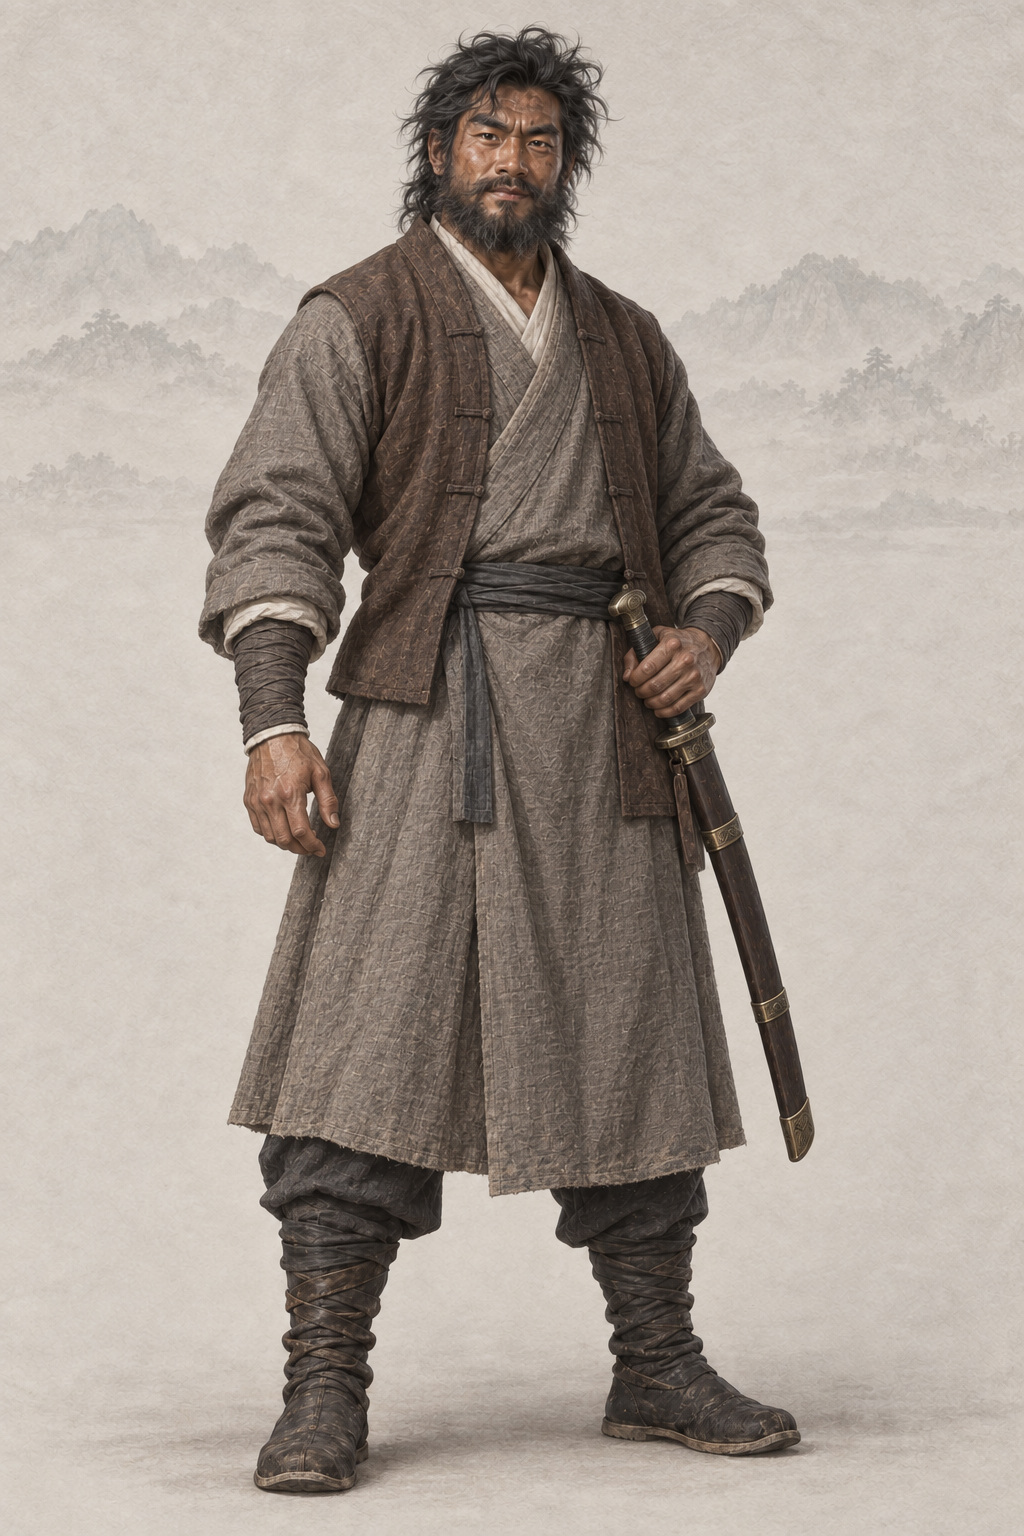
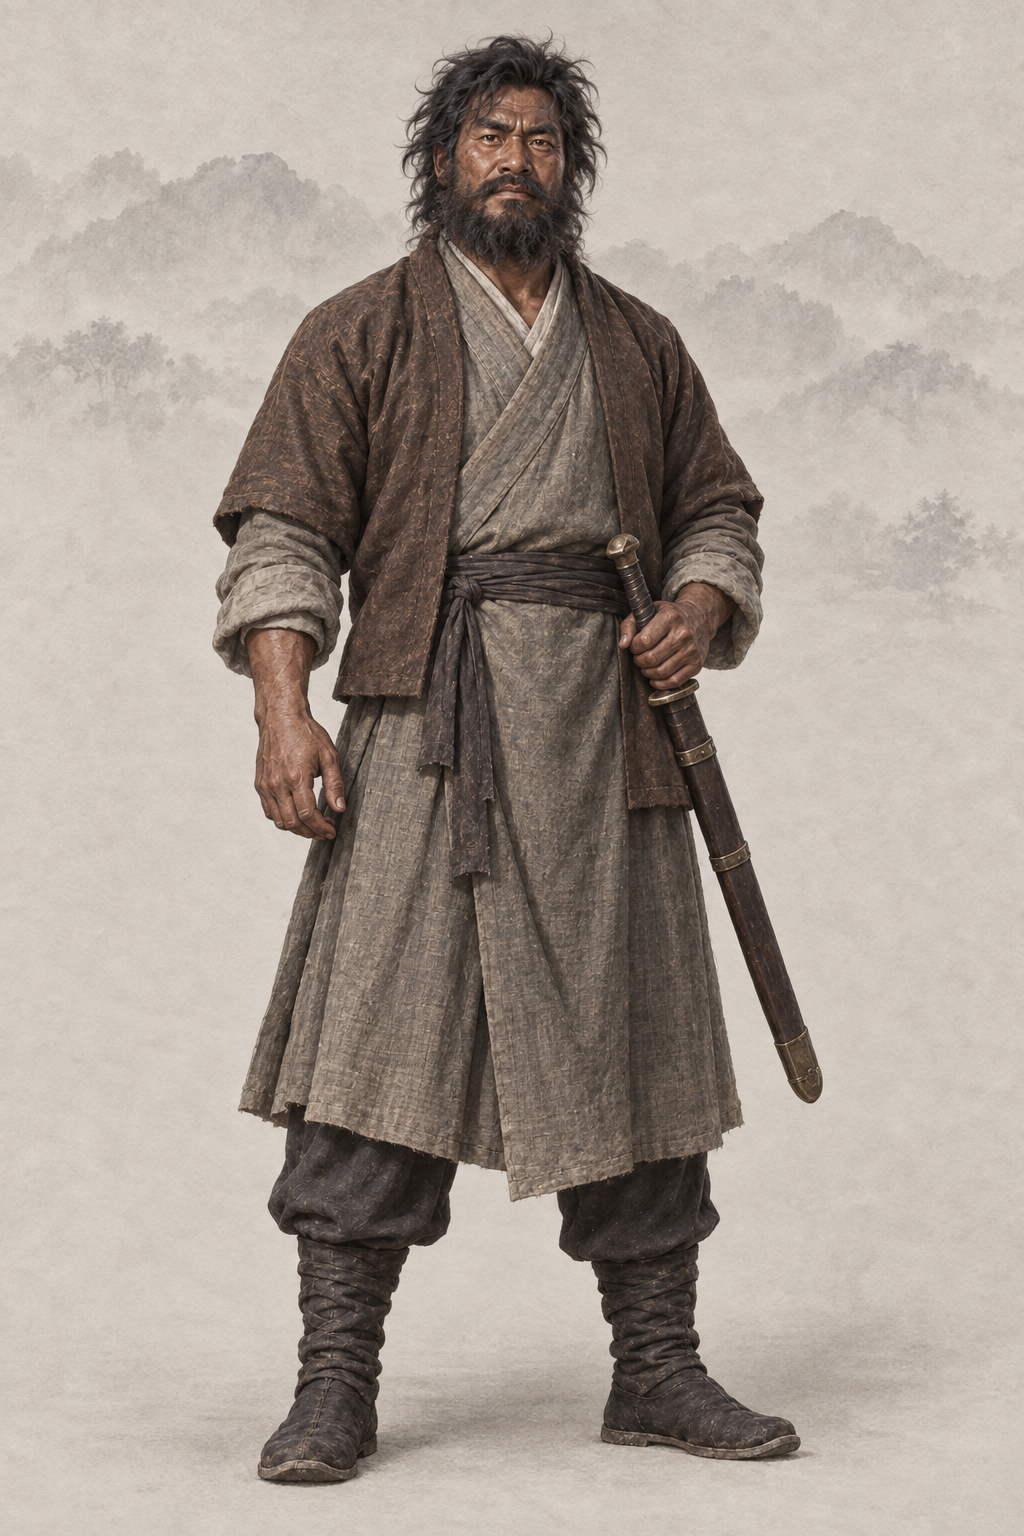
assets(character): por_npc_huyidao__ch13_prime_memory_base 胡一刀（codex · AR-32 主要角色重出，本机无剧照：本轮新图身份参考 + 基线）
本机无剧照，文字 + 基线，身份参考本轮新图；提示词写回「## Gemini 提示词」，上一版留作历史，frontmatter 加 classic_ref。

diff --git a/assets/default/prompts/characters/ch13-feihu/npc_huyidao.md b/assets/default/prompts/characters/ch13-feihu/npc_huyidao.md
@@ -15,16 +15,41 @@ references:
   use: 第二输入仅用户图的暖浅灰纸底、极浅水墨远山薄雾和留白；不取其中女性的脸、年龄、体型、白青衣裙、首饰、发型或姿势，不取花枝亭阁。水墨止于人物轮廓外。
 status: redo
 redo_reason: "现图是英俊的型男、胡须修剪整齐，原著胡一刀「一张黑漆脸皮，满脸浓髯，头发不结辫子蓬蓬松松堆在头上，当真凶恶」；按雪山版重画后的同一张脸统一。"
+realism_revision: user_identity_pose_20261001
+codex_prompt_rev: 2026-10-02
+classic_ref:
+  version: "无剧照（本机没有1991 年台视《雪山飞狐》（含飞狐外传情节）里该角色的剧照，经典造型用文字描写）"
+  stills: []
+  note: "本机没有该角色的经典版剧照，只用文字和两张同性别基线出图（AR-32）；另上传本轮新出的 por_npc_huyidao__ch14_prime_memory_base 作身份参考（放在最前）"
 reference_upload:
 - assets/default/character/male/ch14/por_npc_huyidao__ch14_prime_memory_base.png
 - assets/default/baseline/character/male/ref_npc_linghuchong__ch05_base01.png
-realism_revision: user_identity_pose_20261001
-codex_prompt_rev: 2026-10-02
+- assets/default/baseline/character/male/ref_npc_xiaofeng__ch01_base01.png
 ---
 
 # 胡一刀 · 人物写实修正
 
 ## Gemini 提示词
+
+> 2026-10-02 AR-32 经典剧照重出（6 号出图员，codex exec · image_gen 出图）：本机没有该角色剧照：上传本轮新出的 por_npc_huyidao__ch14_prime_memory_base（同一人物）作身份参考在前、两张同性别基线在后。剧照只借鉴发型、服饰、配色、标志道具、气质与面部特征，重新绘制成项目画风，不照搬照片的构图、光影和姿势；人物一律成年；清代男子按清制剃额留辫（胡一刀按原著不结辫，保留）。提示词里不写演员名。上一版提示词保留在下一节作历史。
+
+```text
+生成一张 2:3 竖幅全身人物立绘：单人、单一视角、完整全身——头顶、双手、双脚和手中器物的两端都在画面内，四周留出自然空白；人物站姿自然，身体基本朝向正面，头部端正（不歪头、不仰不俯），镜头平视。
+【参考图】随提示词上传 3 张参考图。第 1 张是本轮新画的胡一刀（雪山飞狐回忆）立绘，是同一个人：黝黑如漆的脸色、浓眉大眼、满脸粗硬的浓髯和蓬乱的头发都一样；保持同一张脸（脸型、五官比例、肤色和神态），衣服、发式和姿势按下文文字重画，不要照搬它的构图和站姿。最后两张是本项目画风基线：画风、用色、光线、质感和暖浅灰纸底加淡水墨背景以它们为准。
+【画风】写实手绘古风人物插画，与本项目写实武侠角色立绘同一画风，像功力深厚的画师用细腻笔触画出的真实人物。手绘插画质感，不是 CG 渲染：不要过度光滑的皮肤、完美对称的五官、塑料高光、过度锐利的发丝；保留自然的笔触和细微不完美。皮肤有真实质感——细小毛孔、细纹、晒痕和自然的左右不对称，不磨皮、不油亮；头发是一缕缕自然的发丝和少量碎发；布料看得出经纬纹理、厚薄和自然垂坠的褶皱，带穿用过的轻微旧化，但完整不破烂；整体设色低饱和、沉稳；柔和的自然光从左上方照来，明暗过渡自然，不打舞台光、轮廓光或美颜柔光。不是照片，不是三维渲染，不是动漫或游戏 CG，也不是油画（没有厚涂笔触和画布纹理）。
+【背景】不透明的暖浅灰色纸底，只在远处有极淡的水墨远山和薄雾，大面积留白；人物与背景明暗分明、轮廓边缘干净完整（后续要自动抠图），水墨和纸纹只在背景里，不侵入人物和衣服；脚下只有很淡的一点接触阴影。
+【人物】胡一刀，金庸《飞狐外传》回忆中的辽东大侠，胡斐的父亲，与苗人凤决斗之前。
+【年龄与体态】三十多岁的男人，身材魁伟厚实，胸背宽阔，手掌粗大，约七个半头身。
+【经典造型】要一眼认出是辽东大侠胡一刀——黑漆般的脸、满脸钢针似的浓髯、蓬乱不结辫的浓发、腰挎单刀，乍看凶恶如门神，眼神却豪迈坦荡、透着亲切；粗豪而有英雄气。
+【面容】与第 1 张参考图是同一张脸；一张黝黑如漆的脸；满脸浓密粗硬的络腮胡，从鬓角一直连到下巴和喉头；粗黑的浓眉，一双大眼睛圆睁、目光如电；大鼻头、宽鼻翼，阔口厚唇；乍看相貌凶恶粗豪，像庙门上的门神，细看眼神里却有坦荡和豪迈。
+【发式】不结辫子，浓密蓬松的黑发乱糟糟地堆在头上，几绺垂到额前。
+【服饰】灰褐色厚棉长袍，外罩深褐色对襟短褂，交领右衽（穿着者左襟压右襟），宽布带束腰，深色长裤，粗实的皮靴。
+【道具与姿态】左腰挂一柄朴素的中式单刀，微弧刀身完全收在暗棕色长鞘里；左手扶着鞘口。开胸站立，双足牢靠，豪迈大度。
+【不要】画面里不要任何文字、题款、印章、签名、水印、台标、边框、分格或多视图；不要第二个人；不要幼态（童颜、娃娃脸、婴儿肥、儿童或少年身材、大头小身）；不要塑料感皮肤、磨皮美颜、网红脸（尖下巴大眼高鼻的模板脸）、过度对称、浓妆、偶像式打光、蜡像感；不要照片质感、三维渲染或动漫大眼；不要歪头、斜镜头；不要多指、缺指（设定的伤残除外）、手与器物粘连或悬空；汉式交领必须右衽（穿着者的左襟压在右襟上），不要左衽（设定为少数民族服制的除外），不要水平镜像；不要现代物品、日式服饰或日本刀、发光特效、法阵或能量光。不要英俊型男、修剪整齐的短须；不要白净皮肤；不要剃额长辫；不要长剑、出鞘的刀。
+【画风基线】随提示词上传的参考图里，最后两张是本项目的立绘画风基线：只参考它们的画风、用色、光线、质感和暖浅灰纸底加淡水墨的背景处理，整体画风必须与它们一致——精细写实的数字手绘插画，不是油画，不要厚涂笔触和画布纹理。基线图只取画风，不取长相：不要照搬基线图里人物的长相、年龄、发型、服饰和姿势。
+```
+
+## 上一版 Gemini 提示词（2026-10-02 文字版；AR-32 经典剧照重出前，历史，不再用于出图）
 
 > 2026-10-02 Codex 人物线 2 号（AR-31）：在审核组稿上补一行「经典形象」（借鉴公认经典造型的发式、装束、配色、标志道具与气质，只写文字，不写演员名、不上传剧照），并补去 AI 化要求。本轮出图用下面第一个代码块；审核组原稿保留在其后的「审核组原稿」小节作历史。
 
